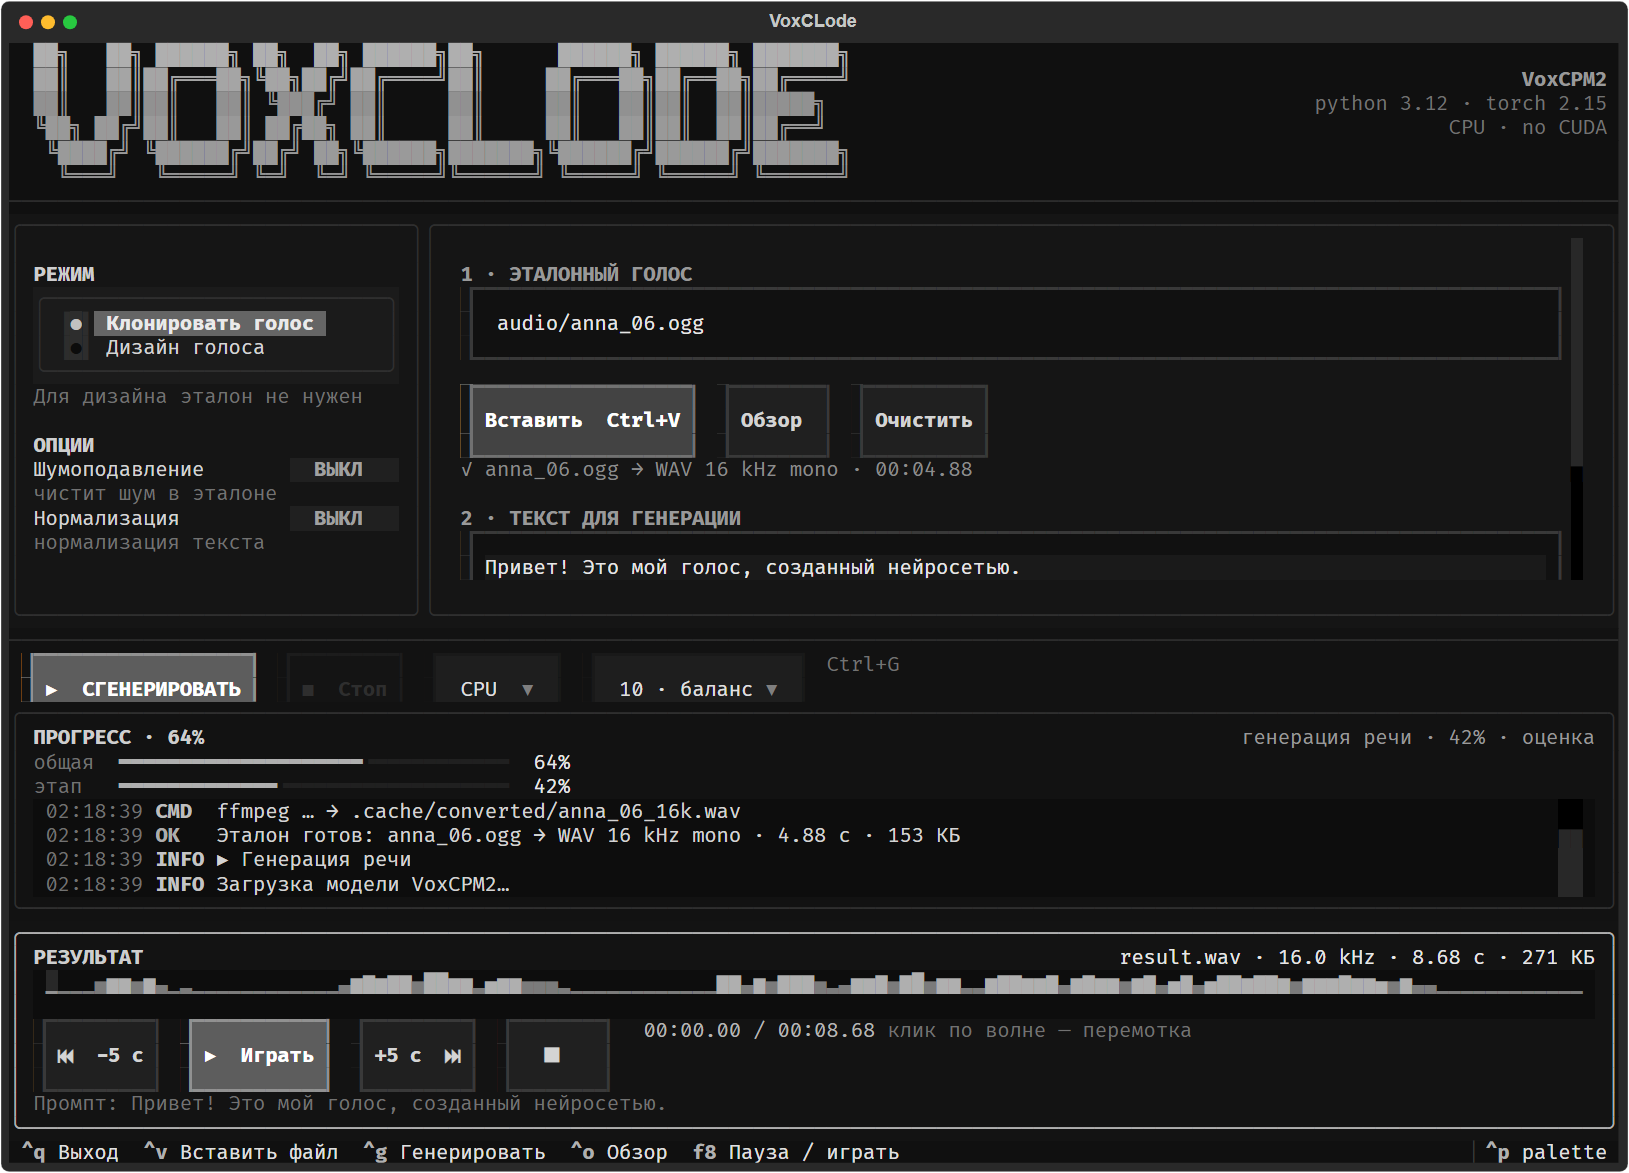
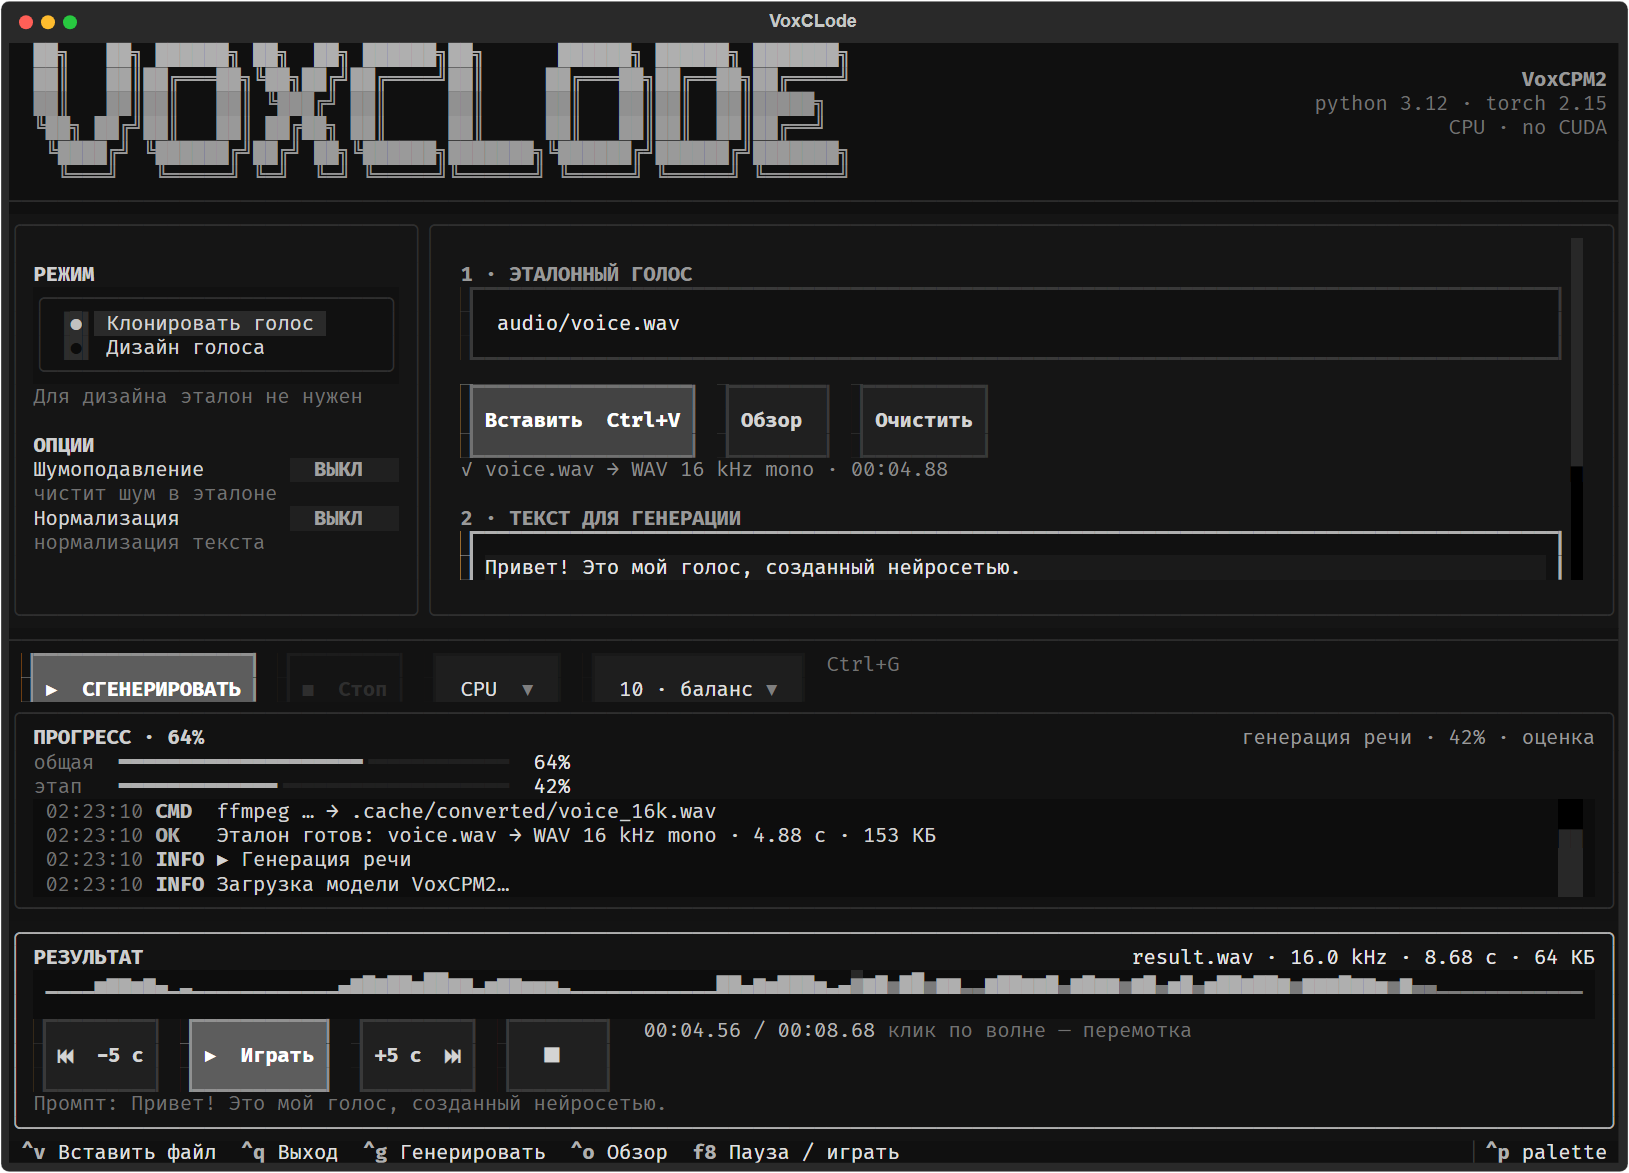
Add cross-platform player, install fallback, docs polish

diff --git a/scripts/check_voxclode.py b/scripts/check_voxclode.py
@@ -52,23 +52,39 @@ async def main() -> int:
         assert app._busy is False
         app.query_one("#prompt", TextArea).text = "Привет! Это мой голос, созданный нейросетью."
 
-        # Populate the player with the reference clip to verify waveform rendering.
-        app.player.load(root / "audio" / "reference_ru.wav")
-        wave = waveform_peaks(root / "audio" / "reference_ru.wav")
+        # Populate the player with a generated demo clip when no sample is present.
+        demo = root / ".cache" / "test" / "demo_player.wav"
+        reference = root / "audio" / "reference_ru.wav"
+        if reference.is_file():
+            player_path = reference
+        else:
+            import numpy as np
+            import soundfile as sf
+
+            demo.parent.mkdir(parents=True, exist_ok=True)
+            rate = 16000
+            timeline = np.linspace(0, 2.0, rate * 2, endpoint=False)
+            tone = 0.2 * np.sin(2 * np.pi * 440 * timeline)
+            sf.write(str(demo), tone, rate, subtype="PCM_16")
+            player_path = demo
+
+        app.player.load(player_path)
+        wave = waveform_peaks(player_path)
         app.query_one("#waveform").set_audio(wave.peaks, wave.duration)
         app.seek_ratio(0.5)
         await pilot.pause(0.2)
         print("seek 50%   :", app.player.position_ms, "ms")
-        assert 3800 < app.player.position_ms < 5200
+        assert wave.duration / 2 * 1000 - 500 < app.player.position_ms < wave.duration / 2 * 1000 + 700
         app.player.pause()
+        app._tick_player()
         app.query_one("#player-panel").display = True
         app.query_one("#track-title", Static).update(
-            f"result.wav · 16.0 kHz · {wave.duration:.2f} c · 271 КБ"
+            f"result.wav · 16.0 kHz · {wave.duration:.2f} c · 64 КБ"
         )
         app.query_one("#prompt-line", Static).update(
             "Промпт: Привет! Это мой голос, созданный нейросетью."
         )
-        app.query_one("#play-time", Static).update("00:00.00 / 00:08.68")
+
 
         app.query_one("#overall").update(progress=64)
         app.query_one("#stage-bar").update(progress=42)
@@ -76,16 +92,17 @@ async def main() -> int:
         app.query_one("#stage-label", Static).update("генерация речи · 42% · оценка")
 
         # Sanitize the demo screenshot: no local user paths in the repository.
-        app.query_one("#ref-path", Input).value = "audio/anna_06.ogg"
-        app.query_one("#ref-path", Input).cursor_position = len("audio/anna_06.ogg")
-        app.query_one("#ref-status", Static).update("✓ anna_06.ogg → WAV 16 kHz mono · 00:04.88")
+        demo_name = "voice.wav"
+        app.query_one("#ref-path", Input).value = f"audio/{demo_name}"
+        app.query_one("#ref-path", Input).cursor_position = len(f"audio/{demo_name}")
+        app.query_one("#ref-status", Static).update("✓ voice.wav → WAV 16 kHz mono · 00:04.88")
         app.query_one("#ref-status", Static).set_class(True, "ok")
         log = app.query_one("#log", RichLog)
         log.clear()
         app._log("SYS", "VoxCLode · VoxCPM2 voice studio")
-        app._log("INFO", "Эталон: audio/anna_06.ogg · 48 kHz · 4.88 c")
-        app._log("CMD", "ffmpeg … → .cache/converted/anna_06_16k.wav")
-        app._log("OK", "Эталон готов: anna_06.ogg → WAV 16 kHz mono · 4.88 c · 153 КБ")
+        app._log("INFO", "Эталон: audio/voice.wav · 48 kHz · 4.88 c")
+        app._log("CMD", "ffmpeg … → .cache/converted/voice_16k.wav")
+        app._log("OK", "Эталон готов: voice.wav → WAV 16 kHz mono · 4.88 c · 153 КБ")
         app._log("INFO", "▶ Генерация речи")
         app._log("INFO", "Загрузка модели VoxCPM2…")
         await pilot.pause()
